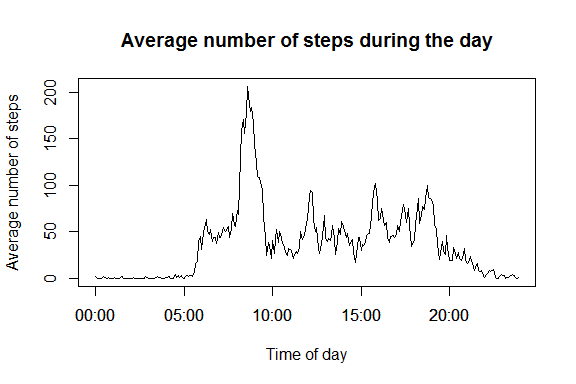
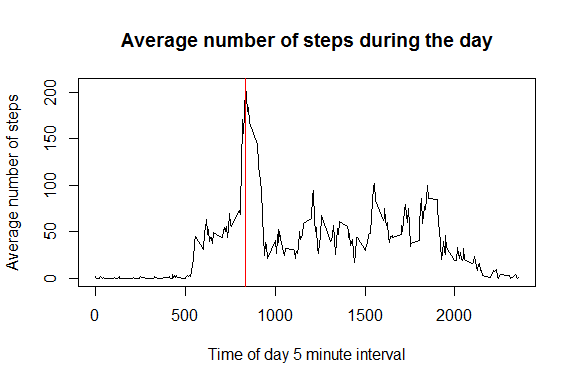
Finalized assignment

diff --git a/PA1_template.html b/PA1_template.html
@@ -63,18 +63,28 @@ img {
 <div id="header">
 <h1 class="title">Reproducible Research: Peer Assessment 1</h1>
 <h4 class="author"><em>Hugo Janssen</em></h4>
-<h4 class="date"><em>6 Jun 2015</em></h4>
+<h4 class="date"><em>5 Jun 2015</em></h4>
 </div>
 
 
+<div id="introduction" class="section level2">
+<h2>Introduction</h2>
+<p>This project is part of the course Reproducible Research. It explores personal movement data that was captured by activity monitoring devices.</p>
+<blockquote>
+<p>It is now possible to collect a large amount of data about personal movement using activity monitoring devices such as a Fitbit, Nike Fuelband, or Jawbone Up. These type of devices are part of the “quantified self” movement – a group of enthusiasts who take measurements about themselves regularly to improve their health, to find patterns in their behavior, or because they are tech geeks. But these data remain under-utilized both because the raw data are hard to obtain and there is a lack of statistical methods and software for processing and interpreting the data.</p>
+</blockquote>
+<blockquote>
+<p>This assignment makes use of data from a personal activity monitoring device. This device collects data at 5 minute intervals through out the day. The data consists of two months of data from an anonymous individual collected during the months of October and November, 2012 and include the number of steps taken in 5 minute intervals each day.</p>
+</blockquote>
+</div>
 <div id="loading-and-preprocessing-the-data" class="section level2">
 <h2>Loading and preprocessing the data</h2>
-<p>The first step is to unzip and read the data.</p>
+<p>The first step is to unzip and read the data. For convenience, the data type for the <code>date</code> attribute is converted from string to date.</p>
 <pre class="r"><code># Unzip the data file to the data directory
 unzip(&quot;activity.zip&quot;)
 
 # Read the data files into a data frame
-d &lt;- read.csv(file=&quot;activity.csv&quot;, header=TRUE, sep=&quot;,&quot;)
+d &lt;- read.csv(file=&quot;activity.csv&quot;, header=TRUE, sep=&quot;,&quot;, na.strings = &quot;NA&quot;)
 
 # Convert dates from string to date
 d$date &lt;- as.Date(d$date)
@@ -94,33 +104,62 @@ summary(d)</code></pre>
 <h2>What is mean total number of steps taken per day?</h2>
 <p>A histogram shows the total number of steps per day:</p>
 <pre class="r"><code># Aggregate the data
-agg &lt;- aggregate(x=d[c(&quot;steps&quot;)], by=list(Group.date=d$date), FUN=sum)
+d_sum &lt;- aggregate(steps~date, data=d, FUN=sum)
 
 # Plot the histogram
-hist(agg$steps, breaks=10, main=&quot;Distribution of the total number of steps per day&quot;, xlab=&quot;Steps per day&quot;)</code></pre>
+hist(d_sum$steps, breaks=15, 
+     main=&quot;Distribution of the total number of steps per day&quot;, 
+     xlab=&quot;Steps per day&quot;)</code></pre>
[1 lines of base64/hex data omitted]
-<p>The <b>mean</b> number of steps is 10766.19 and the <b>median</b> is 10765.</p>
+<p>The <b>mean</b> number of steps is 10766 and the <b>median</b> is 10765.</p>
 </div>
 <div id="what-is-the-average-daily-activity-pattern" class="section level2">
 <h2>What is the average daily activity pattern?</h2>
 <p>The line chart shows the average number of steps during the day:</p>
 <pre class="r"><code># Aggregate the data
-agg2 &lt;- aggregate(x=d[c(&quot;steps&quot;)], by=list(Group.interval=d$interval), FUN=mean, na.rm=TRUE)
-
-# Format the interval as time format
-agg2$Group.interval &lt;- strptime(formatC(agg2$Group.interval, width=4, flag=&quot;0&quot;), &quot;%H%M&quot;)
+d_avg &lt;- aggregate(steps~interval, data=d, FUN=mean, na.rm=TRUE)
 
 # Plot the time series
-plot(agg2, type=&quot;l&quot;, main=&quot;Average number of steps during the day&quot;, xlab=&quot;Time of day&quot;, ylab=&quot;Average number of steps&quot;)
-axis.POSIXct(1, agg2$Group.interval, format=&quot;%H:%M&quot;)</code></pre>
[1 lines of base64/hex data omitted]
-<p>The <b>maximum</b> number of steps is measured at 08:35:00.</p>
+plot(d_avg$steps~d_avg$interval, type=&quot;l&quot;, 
+     main=&quot;Average number of steps during the day&quot;, 
+     xlab=&quot;Time of day 5 minute interval&quot;, 
+     ylab=&quot;Average number of steps&quot;)
+abline(v=d_avg[which.max(d_avg$steps), 1], col=&quot;red&quot;)</code></pre>
[1 lines of base64/hex data omitted]
+<p>The <b>maximum</b> number of steps is measured at interval 835. The red line in the figure above shows this interval.</p>
 </div>
 <div id="imputing-missing-values" class="section level2">
 <h2>Imputing missing values</h2>
+<p>The data set contains 2304 rows with <b>missing values</b>. Missing values are imputed using the calculated means per 5 minute interval.</p>
+<pre class="r"><code># Use the mean per interval to fill missing values
+for (i in unique(d$interval)) {
+  d[is.na(d$steps) &amp; d$interval==i, 1] &lt;- subset(d_avg, interval==i, select=steps)
+}</code></pre>
+<p>The histogram for the data set with imputed missing values looks as follows:</p>
+<pre class="r"><code># Aggregate the data
+d2_sum &lt;- aggregate(steps~date, data=d, FUN=sum)
+
+# Plot the histogram
+hist(d2_sum$steps, breaks=15, 
+     main=&quot;Distribution of the total number of steps per day&quot;, 
+     xlab=&quot;Steps per day&quot;)</code></pre>
[1 lines of base64/hex data omitted]
+<p>In the new data set, the <b>mean</b> number of steps is 10766 and the <b>median</b> is 10766. There is no significant difference compared to the values that were computed for the original data set.</p>
 </div>
 <div id="are-there-differences-in-activity-patterns-between-weekdays-and-weekends" class="section level2">
 <h2>Are there differences in activity patterns between weekdays and weekends?</h2>
+<p>To see whether the activity patterns differ between weekdays and weekends, the data is labeled accordingly. The average number of steps is computed per 5 minute interval and per weekday / weekend. The plot in the figure below shows that there indeed is a difference in activity patterns.</p>
+<pre class="r"><code># Label dates as weekday or weekend
+d$day &lt;- as.factor(ifelse(weekdays(d$date) %in% c(&quot;zaterdag&quot;,&quot;zondag&quot;), &quot;weekend&quot;, &quot;weekday&quot;)) 
+
+# Compute aggregates per interval per weekend and weekday
+day_agg &lt;- aggregate(steps~day+interval, data=d, FUN=mean)
+
+# Plot the averages
+xyplot(steps~interval|day, data=day_agg, layout=c(1,2), type=&quot;l&quot;,
+       xlab=&quot;Interval&quot;,
+       ylab=&quot;Average number of steps&quot;)</code></pre>
[1 lines of base64/hex data omitted]
 </div>
 
 

diff --git a/PA1_template.md b/PA1_template.md
@@ -1,14 +1,27 @@
 # Reproducible Research: Peer Assessment 1
 Hugo Janssen  
-6 Jun 2015  
+5 Jun 2015  
 
 
+
+
+
+
+
+
+## Introduction
+
+This project is part of the course Reproducible Research. It explores personal movement data that was captured by activity monitoring devices.
+
+> It is now possible to collect a large amount of data about personal movement using activity monitoring devices such as a Fitbit, Nike Fuelband, or Jawbone Up. These type of devices are part of the "quantified self" movement -- a group of enthusiasts who take measurements about themselves regularly to improve their health, to find patterns in their behavior, or because they are tech geeks. But these data remain under-utilized both because the raw data are hard to obtain and there is a lack of statistical methods and software for processing and interpreting the data.
+
+> This assignment makes use of data from a personal activity monitoring device. This device collects data at 5 minute intervals through out the day. The data consists of two months of data from an anonymous individual collected during the months of October and November, 2012 and include the number of steps taken in 5 minute intervals each day.
 
 
 
 ## Loading and preprocessing the data
 
-The first step is to unzip and read the data.
+The first step is to unzip and read the data. For convenience, the data type for the ```date``` attribute is converted from string to date.
 
 
 ```r
@@ -16,7 +29,7 @@ The first step is to unzip and read the data.
 unzip("activity.zip")
 
 # Read the data files into a data frame
-d <- read.csv(file="activity.csv", header=TRUE, sep=",")
+d <- read.csv(file="activity.csv", header=TRUE, sep=",", na.strings = "NA")
 
 # Convert dates from string to date
 d$date <- as.Date(d$date)
@@ -45,15 +58,17 @@ A histogram shows the total number of steps per day:
 
 ```r
 # Aggregate the data
-agg <- aggregate(x=d[c("steps")], by=list(Group.date=d$date), FUN=sum)
+d_sum <- aggregate(steps~date, data=d, FUN=sum)
 
 # Plot the histogram
-hist(agg$steps, breaks=10, main="Distribution of the total number of steps per day", xlab="Steps per day")
+hist(d_sum$steps, breaks=15, 
+     main="Distribution of the total number of steps per day", 
+     xlab="Steps per day")
 ```
 
 <img src="PA1_template_files/figure-html/plot_histogram-1.png" title="" alt="" style="display: block; margin: auto;" />
 
-The <b>mean</b> number of steps is 10766.19 and the <b>median</b> is 10765.
+The <b>mean</b> number of steps is 10766 and the <b>median</b> is 10765.
 
 
 
@@ -64,24 +79,70 @@ The line chart shows the average number of steps during the day:
 
 ```r
 # Aggregate the data
-agg2 <- aggregate(x=d[c("steps")], by=list(Group.interval=d$interval), FUN=mean, na.rm=TRUE)
-
-# Format the interval as time format
-agg2$Group.interval <- strptime(formatC(agg2$Group.interval, width=4, flag="0"), "%H%M")
+d_avg <- aggregate(steps~interval, data=d, FUN=mean, na.rm=TRUE)
 
 # Plot the time series
-plot(agg2, type="l", main="Average number of steps during the day", xlab="Time of day", ylab="Average number of steps")
-axis.POSIXct(1, agg2$Group.interval, format="%H:%M")
+plot(d_avg$steps~d_avg$interval, type="l", 
+     main="Average number of steps during the day", 
+     xlab="Time of day 5 minute interval", 
+     ylab="Average number of steps")
+abline(v=d_avg[which.max(d_avg$steps), 1], col="red")
 ```
 
 <img src="PA1_template_files/figure-html/plot_average-1.png" title="" alt="" style="display: block; margin: auto;" />
  
-The <b>maximum</b> number of steps is measured at 08:35:00.
+The <b>maximum</b> number of steps is measured at interval 835. The red line in the figure above shows this interval.
 
 
 
 ## Imputing missing values
 
+The data set contains 2304 rows with <b>missing values</b>. Missing values are imputed using the calculated means per 5 minute interval.
+
+
+```r
+# Use the mean per interval to fill missing values
+for (i in unique(d$interval)) {
+  d[is.na(d$steps) & d$interval==i, 1] <- subset(d_avg, interval==i, select=steps)
+}
+```
+
+The histogram for the data set with imputed missing values looks as follows:
+
+
+```r
+# Aggregate the data
+d2_sum <- aggregate(steps~date, data=d, FUN=sum)
+
+# Plot the histogram
+hist(d2_sum$steps, breaks=15, 
+     main="Distribution of the total number of steps per day", 
+     xlab="Steps per day")
+```
+
+<img src="PA1_template_files/figure-html/plot_histogram2-1.png" title="" alt="" style="display: block; margin: auto;" />
+
+In the new data set, the <b>mean</b> number of steps is 10766 and the <b>median</b> is 10766. There is no significant difference compared to the values that were computed for the original data set.
+
 
 
 ## Are there differences in activity patterns between weekdays and weekends?
+
+To see whether the activity patterns differ between weekdays and weekends, the data is labeled accordingly. The average number of steps is computed per 5 minute interval and per weekday / weekend. The plot in the figure below shows that there indeed is a difference in activity patterns. 
+
+
+
+```r
+# Label dates as weekday or weekend
+d$day <- as.factor(ifelse(weekdays(d$date) %in% c("zaterdag","zondag"), "weekend", "weekday")) 
+
+# Compute aggregates per interval per weekend and weekday
+day_agg <- aggregate(steps~day+interval, data=d, FUN=mean)
+
+# Plot the averages
+xyplot(steps~interval|day, data=day_agg, layout=c(1,2), type="l",
+       xlab="Interval",
+       ylab="Average number of steps")
+```
+
+<img src="PA1_template_files/figure-html/plot_lattice-1.png" title="" alt="" style="display: block; margin: auto;" />
